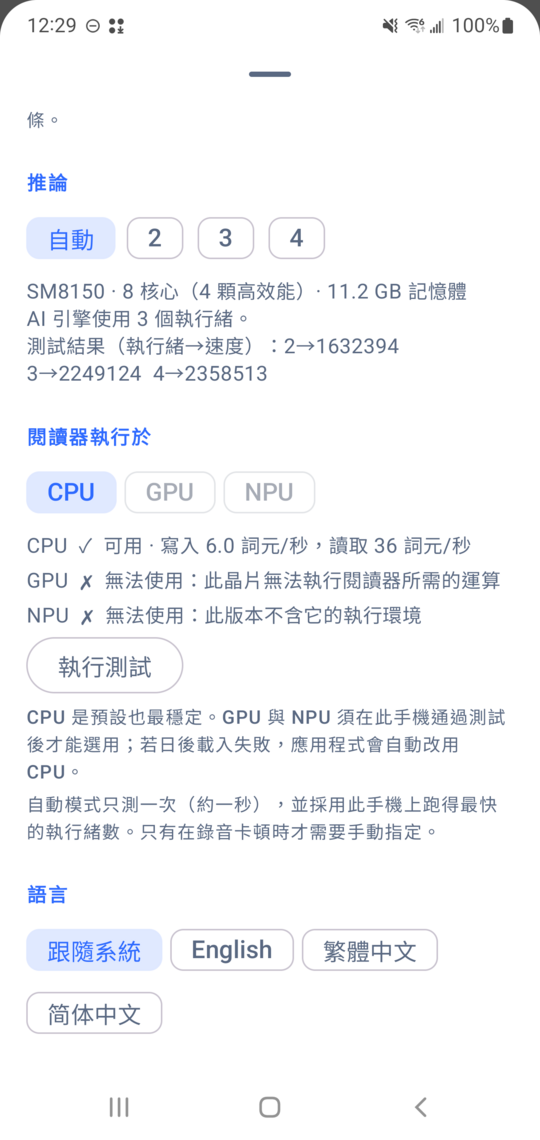
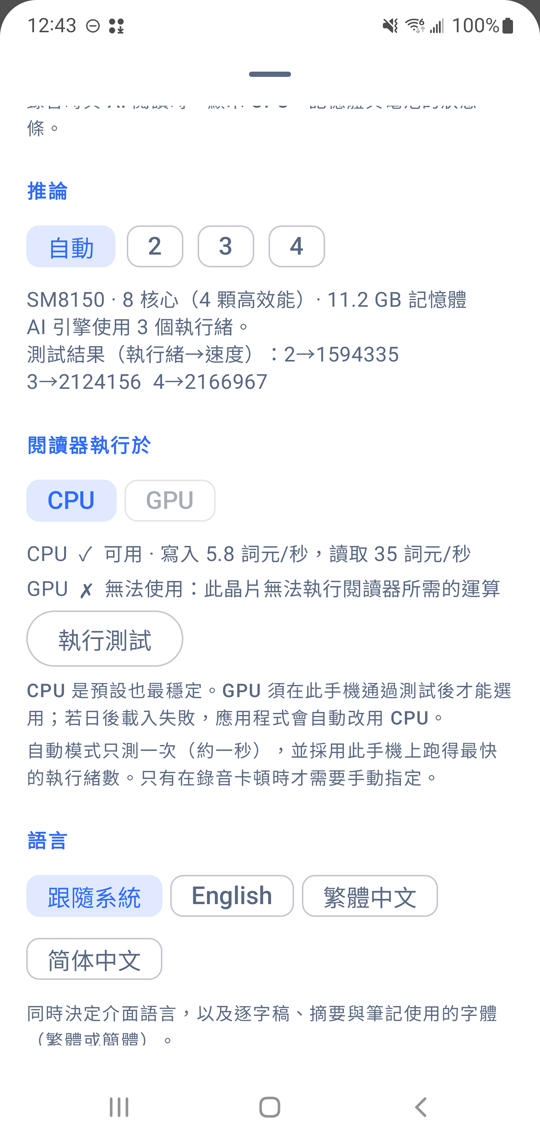
Hide the NPU option for now (Backend.offered = CPU, GPU); docs and screenshot updated
Claude-Session: https://claude.ai/code/session_01KsCgNEd7UM8Bv5a1a9GKev

diff --git a/app/src/main/java/studio/voxsum/ui/SettingsContent.kt b/app/src/main/java/studio/voxsum/ui/SettingsContent.kt
@@ -616,7 +616,7 @@ private fun InferencePanel(enabled: Boolean) {
         style = MaterialTheme.typography.bodySmall,
         color = pal.Slate400,
     )
-    // The reader on each backend: a card per backend, GPU / NPU selectable only once their test passed.
+    // The reader on each backend: a card per backend, GPU selectable only once their test passed.
     val hwKey = remember { studio.voxsum.core.hw.HwInfo.benchKey(ctx) }
     var results by remember { mutableStateOf(studio.voxsum.core.hw.BackendBench.results(ctx, hwKey)) }
     var chosen by remember { mutableStateOf(studio.voxsum.core.hw.HwInfo.backend(ctx)) }
@@ -624,7 +624,7 @@ private fun InferencePanel(enabled: Boolean) {
     var needModel by remember { mutableStateOf(false) }
     Section(stringResource(R.string.settings_backend_title))
     FlowRow(horizontalArrangement = Arrangement.spacedBy(6.dp)) {
-        studio.voxsum.core.hw.Backend.entries.forEach { b ->
+        studio.voxsum.core.hw.Backend.offered.forEach { b ->
             val usable = b == studio.voxsum.core.hw.Backend.CPU || results[b]?.passed == true
             FilterChip(
                 selected = chosen == b,
@@ -640,7 +640,7 @@ private fun InferencePanel(enabled: Boolean) {
         }
     }
     val cpuDecode = results[studio.voxsum.core.hw.Backend.CPU]?.takeIf { it.passed }?.decodeTps
-    studio.voxsum.core.hw.Backend.entries.forEach { b ->
+    studio.voxsum.core.hw.Backend.offered.forEach { b ->
         val r = results[b]
         val line = when {
             testing == b -> stringResource(R.string.backend_testing, backendLabel(b))

diff --git a/app/src/main/java/studio/voxsum/core/hw/Backend.kt b/app/src/main/java/studio/voxsum/core/hw/Backend.kt
@@ -7,7 +7,14 @@ import studio.voxsum.core.llm.SpTokenizer
 import java.io.File
 
 /** Where the reader's model runs. CPU is the default and the only backend the weight cache serves. */
-enum class Backend(val id: Int) { CPU(0), GPU(1), NPU(2) }
+enum class Backend(val id: Int) {
+    CPU(0), GPU(1), NPU(2);
+
+    companion object {
+        /** NPU is plumbed through the engine but hidden: no dispatch library or NPU graph ships yet (docs/GPU_NPU.md). */
+        val offered: List<Backend> = listOf(CPU, GPU)
+    }
+}
 
 /** One backend's benchmark verdict. [passed] = the model loaded and generated on it. */
 data class BackendResult(
@@ -47,7 +54,7 @@ object BackendBench {
     }
 
     fun results(c: Context, key: String): Map<Backend, BackendResult> =
-        Backend.entries.mapNotNull { b -> prefs(c).getString("r|$key|${b.name}", null)?.let { decode(b, it) }?.let { b to it } }.toMap()
+        Backend.offered.mapNotNull { b -> prefs(c).getString("r|$key|${b.name}", null)?.let { decode(b, it) }?.let { b to it } }.toMap()
 
     /** The user's choice, honoured only while that backend's last benchmark passed. */
     fun chosen(c: Context): Backend =
@@ -63,7 +70,7 @@ object BackendBench {
         val tok = SpTokenizer.load(tokenizer)
         val ids = intArrayOf(MfaEngine.BOS) + tok.encode(PROMPT).take(80).toIntArray()
         tok.close()
-        for (b in Backend.entries) {
+        for (b in Backend.offered) {
             onStep(b)
             val r = when {
                 b == Backend.NPU && !npuShipped(c) -> BackendResult(b, false, note = "no_runtime")

diff --git a/app/src/main/java/studio/voxsum/core/hw/HwProfile.kt b/app/src/main/java/studio/voxsum/core/hw/HwProfile.kt
@@ -120,7 +120,7 @@ object HwInfo {
     /** The backend to load the reader on: the user's choice while its last benchmark passed, else CPU. */
     fun backend(context: Context): Backend {
         val b = BackendBench.chosen(context)
-        return if (b == Backend.CPU || BackendBench.results(context, key(context))[b]?.passed == true) b else Backend.CPU
+        return if (b !in Backend.offered) Backend.CPU else if (b == Backend.CPU || BackendBench.results(context, key(context))[b]?.passed == true) b else Backend.CPU
     }
 
     fun benchDone(context: Context): Boolean = prefs(context).getString("benchKey", null) == key(context)

diff --git a/CLAUDE.md b/CLAUDE.md
@@ -25,7 +25,7 @@ scripts/test-on-device.sh [serial]   # instrumented tests on a device — use th
 - **ASR + diarization is ONE streaming engine**: nemo-x-asr-diarizer, vendored in `app/src/main/cpp/nemo` (X-ASR via CrispASR + Nemotron-3 diarization via audio.cpp, fused per word). Kotlin side: `core/asr/NemoStreamEngine.kt`, which emits replace-all `UtteranceSnapshot`s (speaker labels near the live edge are provisional ~5 s). Two ggml copies share the process — audio.cpp's is hidden in `libaudiocpp.so`, CrispASR's is static inside `libvoxsum-nemo.so` (JNI-only exports); never make them share symbols. Everything native is built for `armv8.2-a+dotprod` (`VOXSUM_ARM_ARCH` in CMakeLists.txt); ARMv8.0 devices are refused at launch (`CpuSupport.kt`). No i8mm: the Dimensity reference phones lack it.
 - **Summarizer = live meeting reader** (`core/reader/`): Gemma-4 meeting agent in Google's mobile graph format — E2B mobile-v1 by default, E4B selectable on 8 GB phones (pinned in `LlmRegistry` with its `system_prompt.txt`, must stay paired) — on the forked LiteRT-LM CPU engine (`cpp/mfa/`, `core/llm/MfaEngine.kt`; stock `libLiteRt.so` from the LiteRT AAR, SentencePiece tokenizer). The engine reuses the longest cached prompt prefix instead of sessions; `MfaSession` is the `ReaderLlm`. 4k context: `ReaderBudget.MOBILE` (window 1500, journal 1200) and title/prose on notes compacted to 3,900 chars. `ReaderProtocol.kt` + `MeetingReader.kt` are a port of upstream `eval/phone_live.py` (vieenrose/meeting-summarizer) — the model is fine-tuned on that exact text; `ReaderParityTest` replays goldens made by running the REAL `phone_live.py` (`tools/reader-parity/make_golden.py`; `--mobile` for the 4k one, with `compact_notes`) and must stay byte-identical. Summary = prose written from the notes by one extra call after reading (`ReaderLane.prose`, not part of the upstream protocol; fallback: notes grouped by type); `AgentEvent`s drive the Agent panel (`ui/AgentPanel.kt`). llama.cpp was removed 2026-10-03.
 - **Threads** (`core/hw/HwProfile.kt`, `ThreadBench.kt`): `HwInfo.threads()` feeds every native engine. Auto = a ~1 s first-launch benchmark (re-run per SoC + app version, or from Settings > Inference) keeping the fewest threads within 5 % of the best, else the cpufreq heuristic (2..4, never above the core count); Settings can force 2/3/4. A reader failure at >2 threads caps Auto at 2 until the next benchmark; live mode also needs ≥ 6 cores.
-- **Backends** (`core/hw/Backend.kt`, `docs/GPU_NPU.md`): the reader runs on CPU by default; `MfaEngine.load(..., backend)` can ask LiteRT for GPU / NPU (CPU stays the fallback). The Settings benchmark loads the reader on each backend with a fixed prompt, keeps a card per result, and GPU / NPU are selectable only once their test passed (a crash leaves a flag that marks the backend failed at next launch; a failed load falls back to CPU). Today GPU fails to compile the fused graph (Adreno 640: 73 of 2,580 nodes) and no NPU dispatch library ships. The status line shows GPU / NPU only while the reader uses them.
+- **Backends** (`core/hw/Backend.kt`, `docs/GPU_NPU.md`): the reader runs on CPU by default; `MfaEngine.load(..., backend)` can ask LiteRT for GPU (NPU is plumbed but hidden: `Backend.offered`, no dispatch library / NPU graph ships; CPU stays the fallback). The Settings benchmark loads the reader on each backend with a fixed prompt, keeps a card per result, and the GPU is selectable only once its test passed (a crash leaves a flag that marks the backend failed at next launch; a failed load falls back to CPU). Today GPU fails to compile the fused graph (Adreno 640: 73 of 2,580 nodes) and no NPU dispatch library ships. The status line shows GPU / NPU only while the reader uses them.
 - **Models** (`core/models/ModelManager.kt`): lazily downloaded, HF-revision- and SHA-256-pinned.
 - **Sessions/library** (`core/session`, `core/library`, `data/Session.kt`): recordings are saved immediately on stop; a persistent processing queue survives app kills and batches work so the LLM loads once per batch. Finished sessions embed transcript + summary into the `.m4a`.
 - Network sources (podcast, YouTube via NewPipeExtractor from JitPack) live in `online/` and are optional.

diff --git a/docs/USER_GUIDE.md b/docs/USER_GUIDE.md
@@ -115,7 +115,7 @@ flowchart TD
 
 <img src="guide/24b-capture-live.png" width="270" alt="錄音室"> <img src="guide/24-capture.png" width="270" alt="錄音室，模型載入中">
 
-逐字稿在說話約 0.4 秒後出現；語者確定後標上顏色，尚未確定的句子為淺灰。上方 **AI 筆記** 卡片顯示它正在閱讀逐字稿或正在寫筆記（正在寫的筆記逐字出現）。AI 筆記每讀滿一段逐字稿（約 1,500 個詞元）才寫一批，所以第一則筆記要等幾分鐘才出現（示範會議約在第 6 分鐘），這是正常的。計時器下方的細條是硬體狀態列（CPU、記憶體、電池，閱讀器跑在 GPU／NPU 時另顯示其標示；「BAT +」表示充電中），數值過高時轉紅，可在設定中關閉。RAM 8 GB 以上的手機在錄音中同步閱讀；較小的手機在錄音結束後閱讀。第一次錄音時，模型下載的進度也顯示在這裡，麥克風在下載期間已開始錄音；下載後 AI 筆記模型會準備一次（「正在準備…（僅首次，約一分鐘）」）。
+逐字稿在說話約 0.4 秒後出現；語者確定後標上顏色，尚未確定的句子為淺灰。上方 **AI 筆記** 卡片顯示它正在閱讀逐字稿或正在寫筆記（正在寫的筆記逐字出現）。AI 筆記每讀滿一段逐字稿（約 1,500 個詞元）才寫一批，所以第一則筆記要等幾分鐘才出現（示範會議約在第 6 分鐘），這是正常的。計時器下方的細條是硬體狀態列（CPU、記憶體、電池，閱讀器跑在 GPU 時另顯示其標示；「BAT +」表示充電中），數值過高時轉紅，可在設定中關閉。RAM 8 GB 以上的手機在錄音中同步閱讀；較小的手機在錄音結束後閱讀。第一次錄音時，模型下載的進度也顯示在這裡，麥克風在下載期間已開始錄音；下載後 AI 筆記模型會準備一次（「正在準備…（僅首次，約一分鐘）」）。
 
 | 節點 | 如何到達 | 預期結果 | 驗證 |
 |---|---|---|---|
@@ -198,8 +198,8 @@ flowchart TD
 |---|---|---|
 | 外觀主題：自動／淺色／深色／電子紙 | 立即套用 | ✅ 自動（SettingsContentTest） |
 | 文字大小（85–150%） | 整個 App 的文字（含對話框）立即放大或縮小，疊加於系統字型大小；重新開啟 App 後保留 | ✅ 手動 |
-| 硬體狀態列 | 錄音與 AI 閱讀時，計時器下方顯示 CPU／GPU／記憶體／電池細條；數值過高時轉紅；GPU 細條只在閱讀器實際跑在 GPU 時顯示，NPU 只在跑在 NPU 時顯示標籤（NPU 無可讀的負載）；預設開啟 | ✅ 手動 |
-| 推論：執行緒（自動／2／3／4）與「閱讀器執行於」CPU／GPU／NPU；「執行測試」 | 先測執行緒，再以固定提示測三種後端，每種一張卡片（可用：寫入／讀取速度與相對 CPU 的倍數；不可用：原因）；GPU／NPU 通過測試前為灰色，預設 CPU；日後載入失敗自動改用 CPU | ✅ 手動（Note 10+：CPU 可用、GPU 不可用、NPU 無執行環境） |
+| 硬體狀態列 | 錄音與 AI 閱讀時，計時器下方顯示 CPU／GPU／記憶體／電池細條；數值過高時轉紅；GPU 細條只在閱讀器實際跑在 GPU 時顯示；預設開啟 | ✅ 手動 |
+| 推論：執行緒（自動／2／3／4）與「閱讀器執行於」CPU／GPU；「執行測試」 | 先測執行緒，再以固定提示測 CPU 與 GPU，每種一張卡片（可用：寫入／讀取速度與相對 CPU 的倍數；不可用：原因）；GPU 通過測試前為灰色，預設 CPU；日後載入失敗自動改用 CPU | ✅ 手動（Note 10+：CPU 可用、GPU 不可用） |
 | 語言：跟隨系統／English／繁體中文／简体中文 | 介面與產生的文字一起切換 | ✅ 手動、✅ 自動（SettingsContentTest） |
 | 即時語者標註延遲（5–30 秒） | 錄音時語者標籤出現的延遲；重新開啟 App 後保留 | ✅ 手動 |
 | AI 筆記模型：行動版 E2B／行動版 E4B | 下次閱讀時使用所選模型（未下載時先下載）；E4B 只在 RAM 8 GB 以上的手機可選 | ✅ 手動（Note 10+：E2B、E4B） |

diff --git a/docs/GPU_NPU.md b/docs/GPU_NPU.md
@@ -13,7 +13,7 @@
 - NPU: no dispatch library ships in the app (about 30 MB of Qualcomm libraries, plus a graph compiled for the chip), so the NPU test reports "this build has no runtime for it". It could not be tried here: no Snapdragon 8 Elite (Gen 5) phone was available.
 
 ## What the app does
-- **Benchmark** (Settings > Inference > Run benchmark): thread benchmark, then the reader model on CPU, GPU and NPU with the same fixed prompt (80 tokens read, 16 written). A card per backend: works with its speed (and the ratio to the CPU), or why not. Needs the reader model on the phone.
+- **Benchmark** (Settings > Inference > Run benchmark): thread benchmark, then the reader model on CPU and GPU with the same fixed prompt (80 tokens read, 16 written); a card per backend. The NPU is not offered in the app for now (`Backend.offered`); the engine still accepts it.
 - **Choice**: CPU is the default. GPU / NPU chips are greyed until their test passed on this phone and app version; a failed load later falls back to the CPU on its own.
 - **Crash guard**: a GPU / NPU probe that kills the process is recorded as "crashed" on the next launch and stays off.
 - **Status line**: the GPU gauge appears only while the reader runs on the GPU; an NPU tag only while it runs on the NPU (no app-readable NPU load exists).

diff --git a/README.md b/README.md
@@ -24,7 +24,7 @@
 - **每句都可核對**：摘要與筆記的時間點一下，就從原話開始播放。
 - **錄音不會遺失**：停止即存檔，可連續錄多場，稍後再批次處理。
 - **可編輯、可匯出**：修正文字與語者；匯出 `.m4a`、PDF、Markdown 或字幕。
-- **依手機調整**：首次啟動自動偵測核心數並做一秒測試選執行緒；設定 > 推論的「執行測試」也會用同一段提示分別測 CPU、GPU、NPU，以卡片顯示各自的速度。預設用 CPU，GPU／NPU 通過測試後才能選用，日後載入失敗會自動改回 CPU（目前閱讀器的圖在 GPU 上無法執行，NPU 尚未內建，研究見 [`docs/GPU_NPU.md`](docs/GPU_NPU.md)）。
+- **依手機調整**：首次啟動自動偵測核心數並做一秒測試選執行緒；設定 > 推論的「執行測試」也會用同一段提示分別測 CPU 與 GPU，以卡片顯示各自的速度。預設用 CPU，GPU 通過測試後才能選用，日後載入失敗會自動改回 CPU（目前閱讀器的圖在 GPU 上無法執行；NPU 暫不提供，研究見 [`docs/GPU_NPU.md`](docs/GPU_NPU.md)）。
 
 ## 畫面
 
